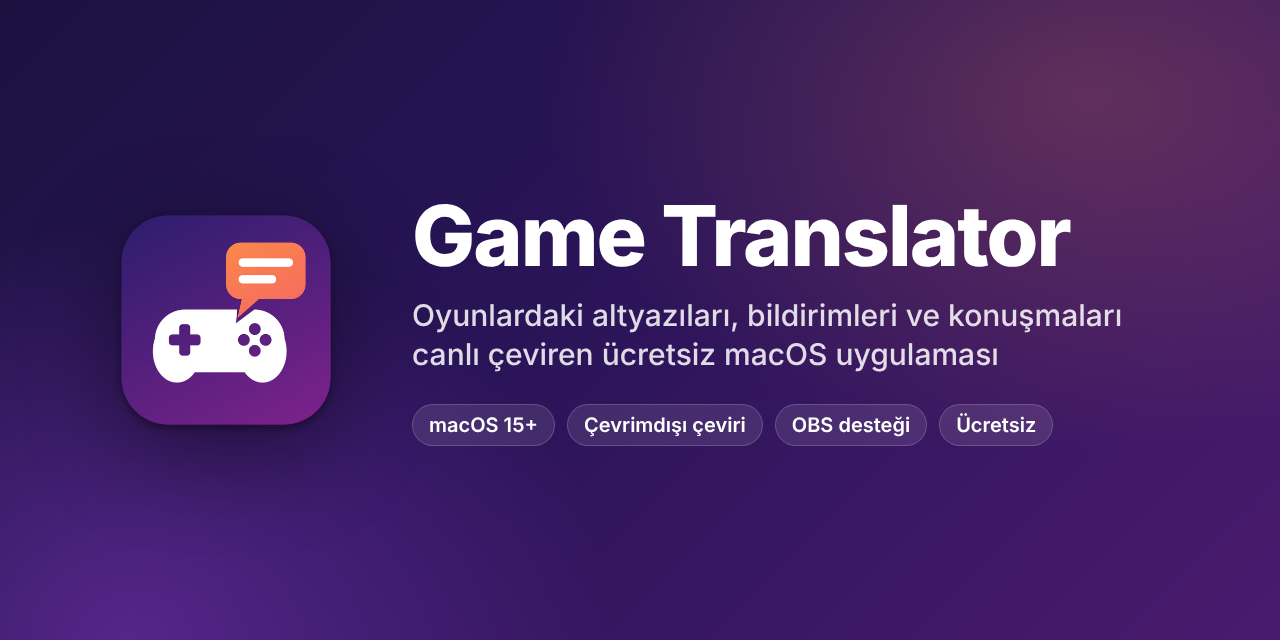
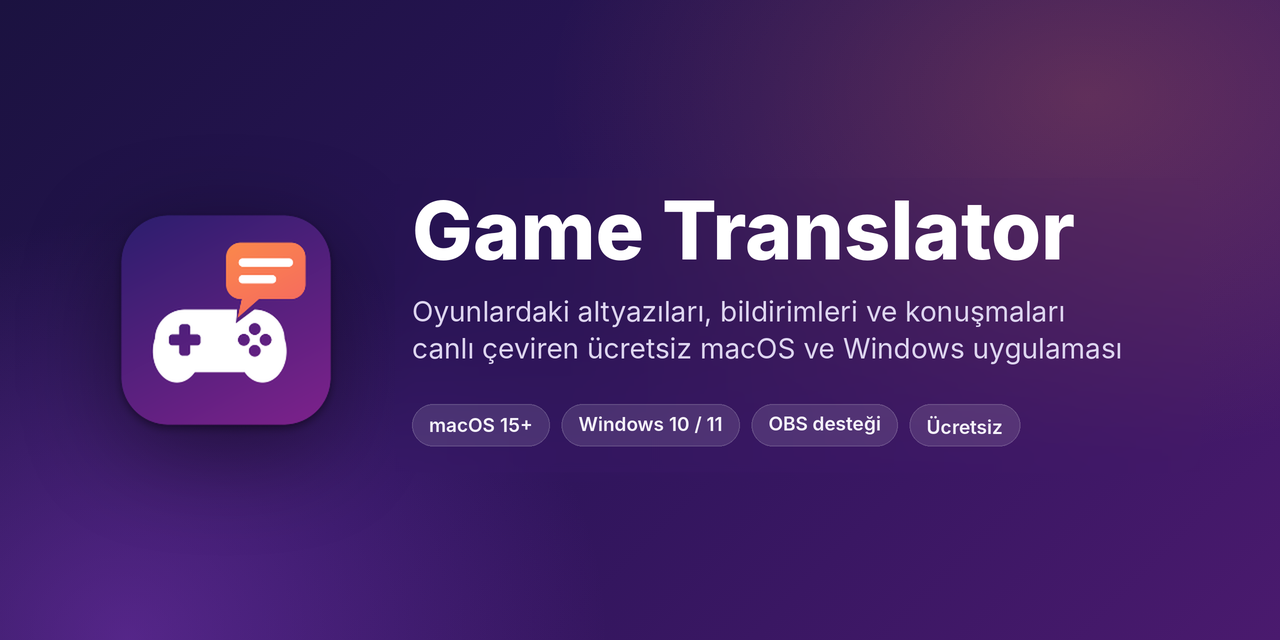
İndirme sayfası: Windows sürümü ve indirme düğmeleri
- Afiş: macOS ve Windows uygulaması, Windows 10 / 11 rozeti
- macOS ve Windows için ayrı indirme düğmeleri
- Windows'ta kurulum bölümü, Windows sık sorulanları

Changed region(s): [[0.3125, 0.4688, 0.875, 0.5938], [0.3125, 0.3125, 0.8438, 0.4375], [0.3438, 0.625, 0.8125, 0.7188]]

diff --git a/README.md b/README.md
@@ -1,18 +1,25 @@
 <p align="center">
-  <img src="assets/afis.png" alt="Game Translator: oyunlardaki altyazıları, bildirimleri ve konuşmaları canlı çeviren ücretsiz macOS uygulaması">
+  <img src="assets/afis.png" alt="Game Translator: oyunlardaki altyazıları, bildirimleri ve konuşmaları canlı çeviren ücretsiz macOS ve Windows uygulaması">
 </p>
 
 <p align="center">
   <a href="https://github.com/0xxnr/GameTranslator/releases/latest"><img src="https://img.shields.io/github/v/release/0xxnr/GameTranslator?label=s%C3%BCr%C3%BCm&color=7b3fe4&cacheSeconds=300" alt="Son sürüm"></a>
   <a href="https://github.com/0xxnr/GameTranslator/releases"><img src="https://img.shields.io/github/downloads/0xxnr/GameTranslator/total?label=indirme&color=ff7a45&cacheSeconds=300" alt="Toplam indirme"></a>
   <img src="https://img.shields.io/badge/macOS-15%2B-111111?logo=apple" alt="macOS 15 ve üstü">
-  <img src="https://img.shields.io/badge/Apple%20silicon-M1%2B-555555" alt="Apple silicon (M1 ve üstü)">
+  <img src="https://img.shields.io/badge/Windows-10%20%2F%2011-0078D4?logo=windows" alt="Windows 10 ve 11">
   <img src="https://img.shields.io/badge/fiyat-%C3%BCcretsiz-2ea44f" alt="Ücretsiz">
 </p>
 
 <p align="center">
-  <a href="https://github.com/0xxnr/GameTranslator/releases/latest"><b>⬇&nbsp; Son sürümü indir</b></a>
-  &nbsp;·&nbsp; <a href="#konsol-oyunlari">Konsol oyunları</a>
+  <a href="https://github.com/0xxnr/GameTranslator/releases/latest"><img src="https://img.shields.io/badge/macOS%20i%C3%A7in%20indir-Apple%20silicon-111111?style=for-the-badge&logo=apple&logoColor=white" alt="macOS için indir" height="40"></a>
+  &nbsp;
+  <a href="https://github.com/0xxnr/GameTranslator/releases/latest"><img src="https://img.shields.io/badge/Windows%20i%C3%A7in%20indir-10%20%2F%2011-0078D4?style=for-the-badge&logo=windows&logoColor=white" alt="Windows için indir" height="40"></a>
+  <br>
+  <sub>Sürüm sayfasında Mac için <code>…-macOS.zip</code>, Windows için <code>…-Windows.zip</code> dosyasını indir.</sub>
+</p>
+
+<p align="center">
+  <a href="#konsol-oyunlari">Konsol oyunları</a>
   &nbsp;·&nbsp; <a href="#kurulum">Kurulum</a>
   &nbsp;·&nbsp; <a href="#özellikler">Özellikler</a>
   &nbsp;·&nbsp; <a href="#obs-ile-yayın"><b>OBS ile yayın</b></a>
@@ -25,14 +32,17 @@
 <h2 align="center">🎮 Konsoldaki oyunlar artık Türkçe</h2>
 
 <p align="center">
-  <b>PlayStation, Xbox ve Nintendo Switch oyunlarını Mac'inde anlık çevir.</b><br>
-  İster <b>yapay zekâ</b> ile, ister <b>Apple'ın ücretsiz ve çevrimdışı çevirisiyle</b>.<br>
+  <b>PlayStation, Xbox ve Nintendo Switch oyunlarını Mac'inde ya da Windows PC'nde anlık çevir.</b><br>
+  İster <b>yapay zekâ</b> ile, ister <b>Apple'ın ücretsiz ve çevrimdışı çevirisiyle</b> (macOS).<br>
   Türkçe desteği olmayan oyunlar, altyazısız diyaloglar, haritalar ve görev metinleri — hepsi oynarken, anında Türkçe.
 </p>
 
 **Game Translator**, oyun ekranındaki yazıyı okur, çevirir ve çeviriyi **orijinal yazının tam üstüne** çizer. Altyazı değiştikçe
 ve pencere taşındıkça takip eder. Altyazısı olmayan diyalogları dinleyip çevirebilir, çevirileri **OBS** ile yayına da gönderebilir.
 PS Remote Play, Elgato, GeForce NOW, Steam Link, tarayıcı ve video oynatıcılarla çalışır.
+
+> 🍎 **macOS** (Apple silicon) ve 🪟 **Windows 10 / 11** sürümleri var; ikisi de ücretsiz ve aynı özellikleri sunar.
+> Windows'taki küçük farklar için [Windows'ta kurulum](#windowsta-kurulum) bölümüne bak.
 
 ### 🎬 Oyunda nasıl görünüyor?
 
@@ -121,11 +131,14 @@ oynarken başka hiçbir şeye dokunman gerekmez.
 | 🎨 **Yazı arka planı** | Siyah, beyaz, şeffaf ya da istediğin renk; saydamlık ayarı ve canlı önizleme. Yazı rengi kendiliğinden uyum sağlar. |
 | 📺 **[OBS ile yayın](#obs-ile-yayın)** | Çeviriler yayına şeffaf arka planla düşer. Altyazı, ses ve bildirimler ayrı kaynaklar olarak ayrı yerlere konabilir; kutu rengi yayında ayrı seçilir. |
 | 🌐 **Çeviri motorları** | Apple (çevrimdışı, ücretsiz), DeepL, Google, Azure, LLM (OpenAI, Ollama, LM Studio), Self-Hosted (LibreTranslate). |
-| ⌨ **Genel kısayollar** | Oyun öndeyken de çalışır: ⌃⌥T başlat/durdur, ⌃⌥H yazıları gizle, ⌃⌥Y yalnızca yayında gizle. |
+| ⌨ **Genel kısayollar** | Oyun öndeyken de çalışır: ⌃⌥T başlat/durdur, ⌃⌥H yazıları gizle, ⌃⌥Y yalnızca yayında gizle (Windows'ta Ctrl+Alt+T / H / Y). |
+| 🪟 **macOS ve Windows** | Aynı arayüz, aynı oyun profilleri, aynı OBS yayın sayfası; ikisi de otomatik güncellenir. |
 | 🔄 **Otomatik güncelleme** | Yeni sürümü kendisi bulur; her güncelleme dijital imzayla doğrulanır. |
-| 🔒 **Gizlilik** | Ekran ve ses yalnızca senin Mac'inde, bellekte işlenir; kaydedilmez, gönderilmez. |
+| 🔒 **Gizlilik** | Ekran ve ses yalnızca senin bilgisayarında, bellekte işlenir; kaydedilmez, gönderilmez. |
 
 ## Kurulum
+
+### macOS'ta kurulum
 
 1. **[Sürümler](https://github.com/0xxnr/GameTranslator/releases/latest)** sayfasından `GameTranslator-x.y.z-macOS.zip` dosyasını indir ve aç.
 2. **Game Translator.app**'i **Uygulamalar** klasörüne sürükle.
@@ -137,6 +150,26 @@ oynarken başka hiçbir şeye dokunman gerekmez.
 
 **Gereksinimler:** macOS 15 (Sequoia) veya üstü, Apple silicon (M1 ve üstü) işlemcili Mac. Sesli konuşma çevirisi için oyun dilinin dikte paketi
 (Sistem Ayarları › Klavye › Dikte) gerekebilir.
+
+<a id="windowsta-kurulum"></a>
+
+### Windows'ta kurulum
+
+1. **[Sürümler](https://github.com/0xxnr/GameTranslator/releases/latest)** sayfasından `GameTranslator-x.y.z-Windows.zip` dosyasını indir.
+2. Zip'e **sağ tıkla › Tümünü ayıkla**. Çıkan `GameTranslator.exe`'yi istediğin yazılabilir bir klasöre koy (ör. Belgeler ya da Masaüstü; *Program Files* değil).
+   Kurulum gerekmez, .NET ya da başka bir şey yüklemen gerekmez.
+3. `GameTranslator.exe`'ye çift tıkla. Windows SmartScreen uyarırsa **Ek bilgi › Yine de çalıştır**. *(Uygulama kod imzası taşımadığı için yalnızca ilk açılışta sorar.)*
+4. **Ayarlar › Çeviri motoru**'ndan motoru seç. Windows'ta Apple çevirisi yoktur; **DeepL API Free** (ayda 500.000 karakter ücretsiz),
+   Azure, Google ya da Ollama ile **ücretsiz ve çevrimdışı** yapay zekâ kullanabilirsin.
+5. **Değiştir** ile oyun penceresini seç, ardından **Çeviriyi Başlat** (Ctrl+R) ya da oyundayken **Ctrl+Alt+T**.
+
+**Gereksinimler:** Windows 10 (2004 ve üstü) ya da Windows 11, 64 bit. Yazılar Windows'un yerleşik OCR'ı ile okunur: oyun dili Windows'ta yüklü
+olmalı (Ayarlar › Zaman ve dil › Dil ve bölge › Dil ekle); uygulama eksikse söyler. Oyunu **pencere** ya da **tam ekran pencere (borderless)** modunda çalıştır.
+
+**Windows'a özel notlar**
+- **Sesli konuşma çevirisi** cihazda çalışır; ilk açılışta ses modeli bir kez indirilir (57 ya da 181 MB). Windows'ta bilgisayarın tüm sesi dinlenir.
+- Ekrandaki çeviri ekran yakalamalarına girmez; yayında çeviri için [OBS Tarayıcı kaynağını](#obs-ile-yayın) kullan.
+- Kısayollar: **Ctrl+Alt+T** başlat/durdur, **Ctrl+Alt+H** yazıları gizle, **Ctrl+Alt+Y** yalnızca yayında gizle.
 
 ## OBS ile yayın
 
@@ -325,6 +358,10 @@ kurulum başarısız olursa eski sürüm geri konur. Güncellemeden sonra macOS 
 ```bash
 shasum -a 256 ~/Downloads/GameTranslator-*-macOS.zip
 ```
+Windows'ta (PowerShell):
+```powershell
+Get-FileHash $HOME\Downloads\GameTranslator-*-Windows.zip -Algorithm SHA256
+```
 
 ## Sık sorulanlar
 
@@ -335,7 +372,20 @@ Uygulamaya **sağ tıkla › Aç › Aç**. Olmazsa Sistem Ayarları › Gizlili
 </details>
 
 <details>
-<summary><b>Pencere listesi boş ya da görüntü siyah</b></summary>
+<summary><b>Windows "Bilgisayarınız korundu" diyor</b></summary>
+
+SmartScreen uyarısında **Ek bilgi › Yine de çalıştır**'a bas. Uygulama kod imzası taşımadığı için Windows bunu yalnızca ilk açılışta sorar.
+</details>
+
+<details>
+<summary><b>Windows'ta çeviri oyunun üstünde görünmüyor</b></summary>
+
+Oyunu **pencere** ya da **tam ekran pencere (borderless)** modunda çalıştır. Özel tam ekran (exclusive fullscreen) modunda Windows hiçbir
+uygulamanın oyunun üstüne çizmesine izin vermez. Görüntü siyahsa oyunu öne getir ya da **Ekran** kaynağını seç.
+</details>
+
+<details>
+<summary><b>Pencere listesi boş ya da görüntü siyah (macOS)</b></summary>
 
 Ekran Kaydı izni eksiktir: Sistem Ayarları › Gizlilik ve Güvenlik › Ekran ve Sistem Ses Kaydı › Game Translator'ı aç ve uygulamayı
 yeniden başlat. Güncellemeden sonra izni kapatıp açman gerekebilir. Bazı korumalı uygulamalar yakalamada siyah görüntü verir;
@@ -352,7 +402,8 @@ büyütmeyi artır. Oyun dilinin doğru seçildiğinden emin ol.
 <details>
 <summary><b>İnternet gerekiyor mu?</b></summary>
 
-Apple motoruyla hayır: dil paketi bir kez indikten sonra tamamen çevrimdışı çalışır. DeepL, Google, Azure ve bulut LLM'ler internet ister.
+macOS'ta Apple motoruyla hayır: dil paketi bir kez indikten sonra tamamen çevrimdışı çalışır. Windows'ta ve her iki sistemde Ollama / LM Studio ile
+yerel model kullanırsan da internet gerekmez. DeepL, Google, Azure ve bulut LLM'ler internet ister.
 </details>
 
 <details>
@@ -363,7 +414,7 @@ Uygulama tamamen ücretsizdir. Kaynak kodu paylaşılmaz; bu depo yalnızca indi
 
 ## Gizlilik
 
-Ekran görüntüsü ve ses yalnızca bu Mac'te, bellekte işlenir; kaydedilmez, hiçbir yere gönderilmez. Apple motoru internet kullanmaz.
+Ekran görüntüsü ve ses yalnızca senin bilgisayarında, bellekte işlenir; kaydedilmez, hiçbir yere gönderilmez. Apple motoru internet kullanmaz.
 Bulut motoru seçersen yalnızca okunan metin, kendi API anahtarınla o sağlayıcıya gönderilir. Uygulama güncelleme denetimi için
 yalnızca bu deponun herkese açık sürüm bilgisini okur; kullanıcı verisi toplamaz.
 
